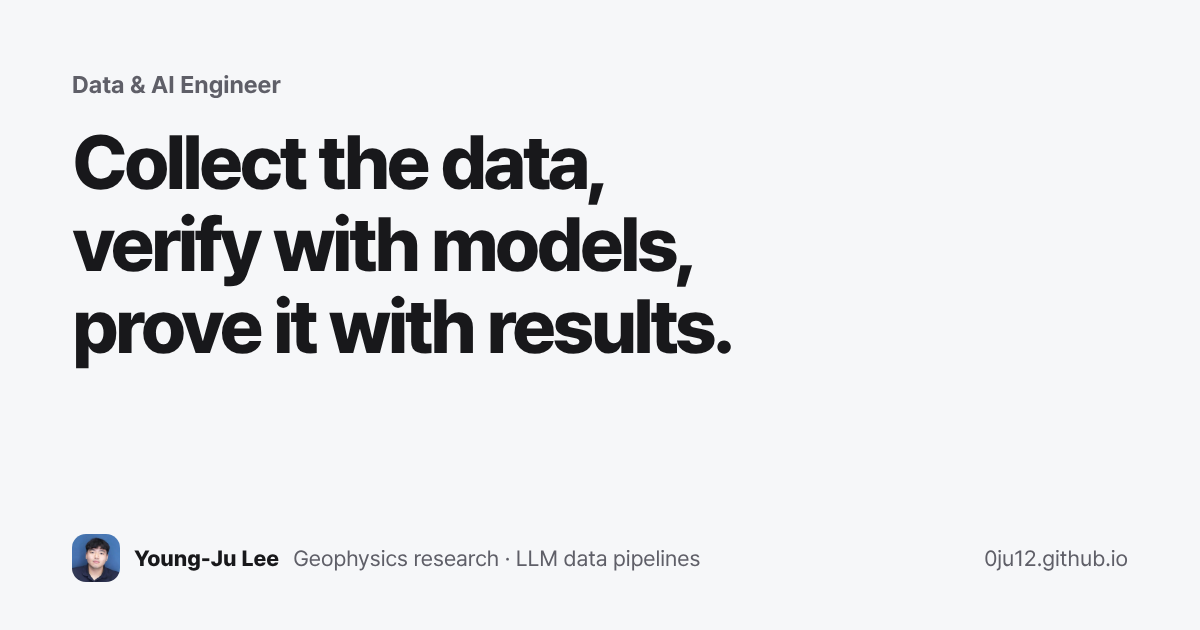
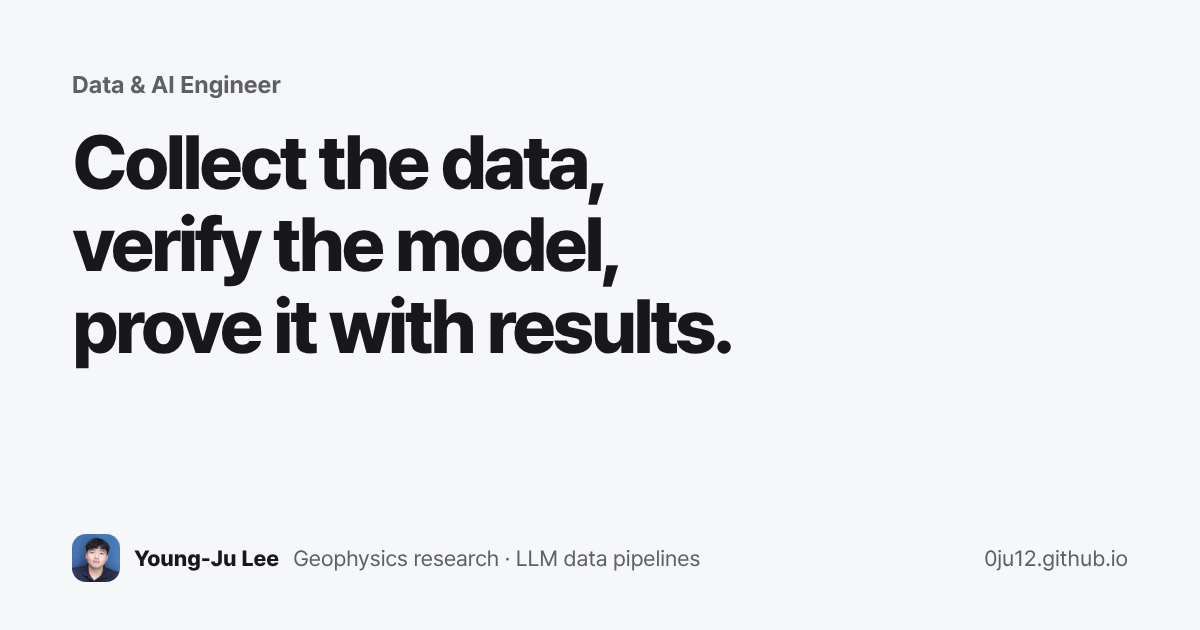
첫 화면 머리말·소개 문단을 새 문구로 교체(pitch 한 곳에서 관리), 공유 이미지·강의 노트·면접 앱에 반영
Claude-Session: https://claude.ai/code/session_01SegzvmjjqEPsktdCrjZXLm

Changed region(s): [[0.2158, 0.3317, 0.5858, 0.4524]]

diff --git a/docs/index.html b/docs/index.html
@@ -281,8 +281,8 @@ html[lang="en"] .hero p,html[lang="en"] .card .desc,html[lang="en"] .card .one{t
     <div class="hero-in">
       <div class="who"><img class="avatar big" src="assets/photos/profile.jpg" alt="이영주 프로필 사진">
 <span><b>이영주</b>데이터·AI 엔지니어 · 함께 일할 곳을 찾고 있습니다</span></div>
-      <h1>데이터를 모으고,<br>모델로 검증하고,<br><em>결과로 증명합니다.</em></h1>
-      <p class="rv rv-all lede">데이터가 어디서 왔는지부터 확인하는 엔지니어입니다. 모델이 낸 답은 다른 방법으로 한 번 더 검증하고, 결과가 좋아 보이는 것보다 왜 맞는지 설명할 수 있는 것을 더 중요하게 생각합니다.</p>
+      <h1>데이터를 모으고,<br>모델을 검증하고,<br><em>결과로 증명합니다.</em></h1>
+      <p class="rv rv-all lede">데이터의 출처와 품질부터 확인하고, 모델이 만든 결과는 코드와 근거로 한 번 더 검증합니다. 좋은 결과를 만드는 것을 넘어, 왜 그 결과를 신뢰할 수 있는지 설명할 수 있는 시스템을 만듭니다.</p>
 <p class="rv rv-data rolehead"><b>데이터 수집부터 정제·검증·색인까지 파이프라인을 만드는 데이터 엔지니어</b><small>이 직무에 맞춘 순서·핵심 문장·기술로 보는 중입니다.</small></p><p class="rv rv-ai rolehead"><b>LLM 파인튜닝·RAG·시공간 딥러닝을 실험으로 검증하는 AI·ML 엔지니어</b><small>이 직무에 맞춘 순서·핵심 문장·기술로 보는 중입니다.</small></p>      <div class="cta"><a class="btn pri" href="#work">작업 보기</a><a class="btn" id="resume-btn" href="resume-1page.pdf" data-all="resume-1page.pdf" data-data="resume-data.pdf" data-ai="resume-ai.pdf" download>이력서 PDF</a><a class="btn" href="https://github.com/0Ju12" target="_blank" rel="noopener"><svg width="16" height="16" viewBox="0 0 24 24" aria-hidden="true" fill="currentColor"><path d="M12 .5a11.5 11.5 0 0 0-3.64 22.41c.58.1.79-.25.79-.56v-2c-3.2.7-3.88-1.37-3.88-1.37-.53-1.33-1.28-1.69-1.28-1.69-1.05-.72.08-.7.08-.7 1.16.08 1.77 1.19 1.77 1.19 1.03 1.77 2.7 1.26 3.36.96.1-.75.4-1.26.73-1.55-2.55-.29-5.24-1.28-5.24-5.69 0-1.26.45-2.29 1.19-3.1-.12-.29-.52-1.46.11-3.05 0 0 .97-.31 3.17 1.18a11 11 0 0 1 5.77 0c2.2-1.49 3.17-1.18 3.17-1.18.63 1.59.23 2.76.11 3.05.74.81 1.19 1.84 1.19 3.1 0 4.42-2.7 5.39-5.26 5.68.41.36.78 1.06.78 2.14v3.17c0 .31.21.67.8.56A11.5 11.5 0 0 0 12 .5Z"/></svg> GitHub</a></div>
 <ul class="proof" aria-label="대표 근거"><li><a href="projects/masters.html"><b>연구</b><span>겹친 중력·자력 신호를 분리하는 지표를 설계해 SCIE 제1저자 논문 (SPE Journal)</span><i aria-hidden="true">→</i></a></li><li><a href="projects/ssafy-16.html"><b>LLM</b><span>LLM의 판단을 코드로 다시 검증하는 데이터 파이프라인 — 자동 테스트 142개</span><i aria-hidden="true">→</i></a></li><li><a href="https://0ju12.github.io/data-projects/power/" target="_blank" rel="noopener"><b>데이터</b><span>공개 데이터 프로젝트 4종 — 전력 수요 하루 전 예측을 직접 볼 수 있는 탐색기</span><i aria-hidden="true">→</i></a></li></ul>      <div class="avail"><span><b>희망 직무</b>데이터 엔지니어 · AI/ML 엔지니어</span><span><b>근무 지역</b>무관</span><span><b>입사 가능</b>2027년 상반기</span></div>
     </div>

diff --git a/docs/en.html b/docs/en.html
@@ -281,8 +281,8 @@ Young-Ju Lee</a><a class="n" href="#work">Work</a><a class="n" href="#map">Map</
     <div class="hero-in">
       <div class="who"><img class="avatar big" src="assets/photos/profile.jpg" alt="Young-Ju Lee Profile photo">
 <span><b>Young-Ju Lee</b>Data &amp; AI Engineer · Open to new opportunities</span></div>
-      <h1>Collect the data,<br>verify with models,<br><em>prove it with results.</em></h1>
-      <p class="rv rv-all lede">I&#39;m an engineer who starts by asking where the data came from. I check a model&#39;s answer another way before relying on it, and I value being able to explain why a result is right over a result that merely looks good.</p>
+      <h1>Collect the data,<br>verify the model,<br><em>prove it with results.</em></h1>
+      <p class="rv rv-all lede">I start by checking where the data came from and how good it is, and I verify what a model produces once more with code and evidence. Beyond producing good results, I build systems that can explain why those results can be trusted.</p>
       <div class="cta"><a class="btn pri" href="#work">See work</a><a class="btn" id="resume-btn" href="resume-1page-en.pdf" data-all="resume-1page.pdf" download>Resume PDF</a><a class="btn" href="https://github.com/0Ju12" target="_blank" rel="noopener"><svg width="16" height="16" viewBox="0 0 24 24" aria-hidden="true" fill="currentColor"><path d="M12 .5a11.5 11.5 0 0 0-3.64 22.41c.58.1.79-.25.79-.56v-2c-3.2.7-3.88-1.37-3.88-1.37-.53-1.33-1.28-1.69-1.28-1.69-1.05-.72.08-.7.08-.7 1.16.08 1.77 1.19 1.77 1.19 1.03 1.77 2.7 1.26 3.36.96.1-.75.4-1.26.73-1.55-2.55-.29-5.24-1.28-5.24-5.69 0-1.26.45-2.29 1.19-3.1-.12-.29-.52-1.46.11-3.05 0 0 .97-.31 3.17 1.18a11 11 0 0 1 5.77 0c2.2-1.49 3.17-1.18 3.17-1.18.63 1.59.23 2.76.11 3.05.74.81 1.19 1.84 1.19 3.1 0 4.42-2.7 5.39-5.26 5.68.41.36.78 1.06.78 2.14v3.17c0 .31.21.67.8.56A11.5 11.5 0 0 0 12 .5Z"/></svg> GitHub</a></div>
 <ul class="proof" aria-label="Key evidence"><li><a href="projects/masters-en.html"><b>Research</b><span>Designed indicators that separate overlapping gravity and magnetic signals — first-author SCIE paper (SPE Journal)</span><i aria-hidden="true">→</i></a></li><li><a href="projects/ssafy-16-en.html"><b>LLM</b><span>A data pipeline that re-checks LLM judgements in code — 142 automated tests</span><i aria-hidden="true">→</i></a></li><li><a href="https://0ju12.github.io/data-projects/power/" target="_blank" rel="noopener"><b>Data</b><span>Four public-data projects — explore a day-ahead power demand forecast yourself</span><i aria-hidden="true">→</i></a></li></ul>      <div class="avail"><span><b>Looking for</b>Data Engineer · AI/ML Engineer</span><span><b>Location</b>Open to any location</span><span><b>Available</b>H1 2027</span></div>
     </div>

diff --git a/scripts/og.js b/scripts/og.js
@@ -41,8 +41,8 @@ ${img ? `<div class="im"><img src="${img}"></div>` : ''}
 <div class="foot"><img src="${photo}"><b>${en ? 'Young-Ju Lee' : '이영주'}</b><span>${en ? 'Data & AI Engineer' : '데이터·AI 엔지니어'}</span><span>0ju12.github.io</span></div></body></html>`;
 };
 
-const KO = { role: '데이터·AI 엔지니어', name: '이영주', tag: '지구물리 연구 · LLM 데이터 파이프라인', h1: '데이터를 모으고,<br>모델로 검증하고,<br>결과로 증명합니다.' };
-const EN = { role: 'Data & AI Engineer', name: 'Young-Ju Lee', tag: 'Geophysics research · LLM data pipelines', h1: 'Collect the data,<br>verify with models,<br>prove it with results.' };
+const KO = { role: '데이터·AI 엔지니어', name: '이영주', tag: '지구물리 연구 · LLM 데이터 파이프라인', h1: '데이터를 모으고,<br>모델을 검증하고,<br>결과로 증명합니다.' };
+const EN = { role: 'Data & AI Engineer', name: 'Young-Ju Lee', tag: 'Geophysics research · LLM data pipelines', h1: 'Collect the data,<br>verify the model,<br>prove it with results.' };
 
 (async () => {
   const b = await chromium.launch();

diff --git a/scripts/interview.py b/scripts/interview.py
@@ -144,7 +144,7 @@ def decks(data, variants):
         order = [(g, p) for gid in v.get("order", []) for g, p in projs if g.get("id") == gid]
         top = order[:3]
         slides = [{"t": "title", "kicker": "1분 자기소개 · " + v.get("label", role), "h": prof["name"], "sub": v.get("headline") or prof["headline"],
-                   "note": f"안녕하세요, {v.get('label', '')} 직무에 지원한 {prof['name']}입니다. {v.get('headline') or prof['headline']}."},
+                   "note": f"안녕하세요, {v.get('label', '')} 직무에 지원한 {prof['name']}입니다. {v.get('headline') or prof['headline']}." + ((" " + " ".join((data.get("pitch") or {}).get("h1", [])) + " " + (data.get("pitch") or {}).get("body", "")) if data.get("pitch") else "")},
                   {"t": "stats", "h": "숫자로 보는 저", "items": [[x["value"], x["label"]] for x in v.get("highlights", [])[:4]],
                    "note": "제 경험을 숫자 네 개로 먼저 말씀드리겠습니다. " + " ".join(f"{x['value']}, {x['label']}." for x in v.get("highlights", [])[:4])}]
         for g, p in top:
@@ -220,6 +220,7 @@ def build(env, data):
            "roles": {k: v.get("label", k) for k, v in variants.items()}, "name": data["profile"]["name"], "cats": CATS,
            "recruit": yaml.safe_load((ROOT / "data" / "recruit.yaml").read_text(encoding="utf-8")) or {}}
     app["cv"] = cv(data)
+    app["pitch"] = data.get("pitch") or {}
     seed_f = ROOT / "data" / "algo_solved.yaml"
     seed = (yaml.safe_load(seed_f.read_text(encoding="utf-8")) or {}) if seed_f.exists() else {}
     app["algo_seed"] = {"source": seed.get("source", ""), "updated": seed.get("updated", ""), "repo": seed.get("repo", ""), "tested": seed.get("tested", ""),

diff --git a/scripts/study.py b/scripts/study.py
@@ -219,7 +219,7 @@ def build(env, data):
     dated = sorted([n for n in notes if n["date"]], key=lambda n: (n["date"], order[n["track"]], n["file"]))
     app = {"tracks": [{"id": t[0], "name": t[1], "desc": t[2]} for t in TRACKS],
            "notes": [{k: n[k] for k in ("slug", "title", "num", "date", "sections", "summary", "track", "nq")} for n in notes],
-           "units": units, "salt": base64.b64encode(locker.salt).decode() if locker.password else ""}
+           "pitch": (data.get("pitch") or {}), "units": units, "salt": base64.b64encode(locker.salt).decode() if locker.password else ""}
     search = OUT / "search.enc.json"
     if locker.password:
         search.write_text(json.dumps(locker.blob(index)), encoding="utf-8")
